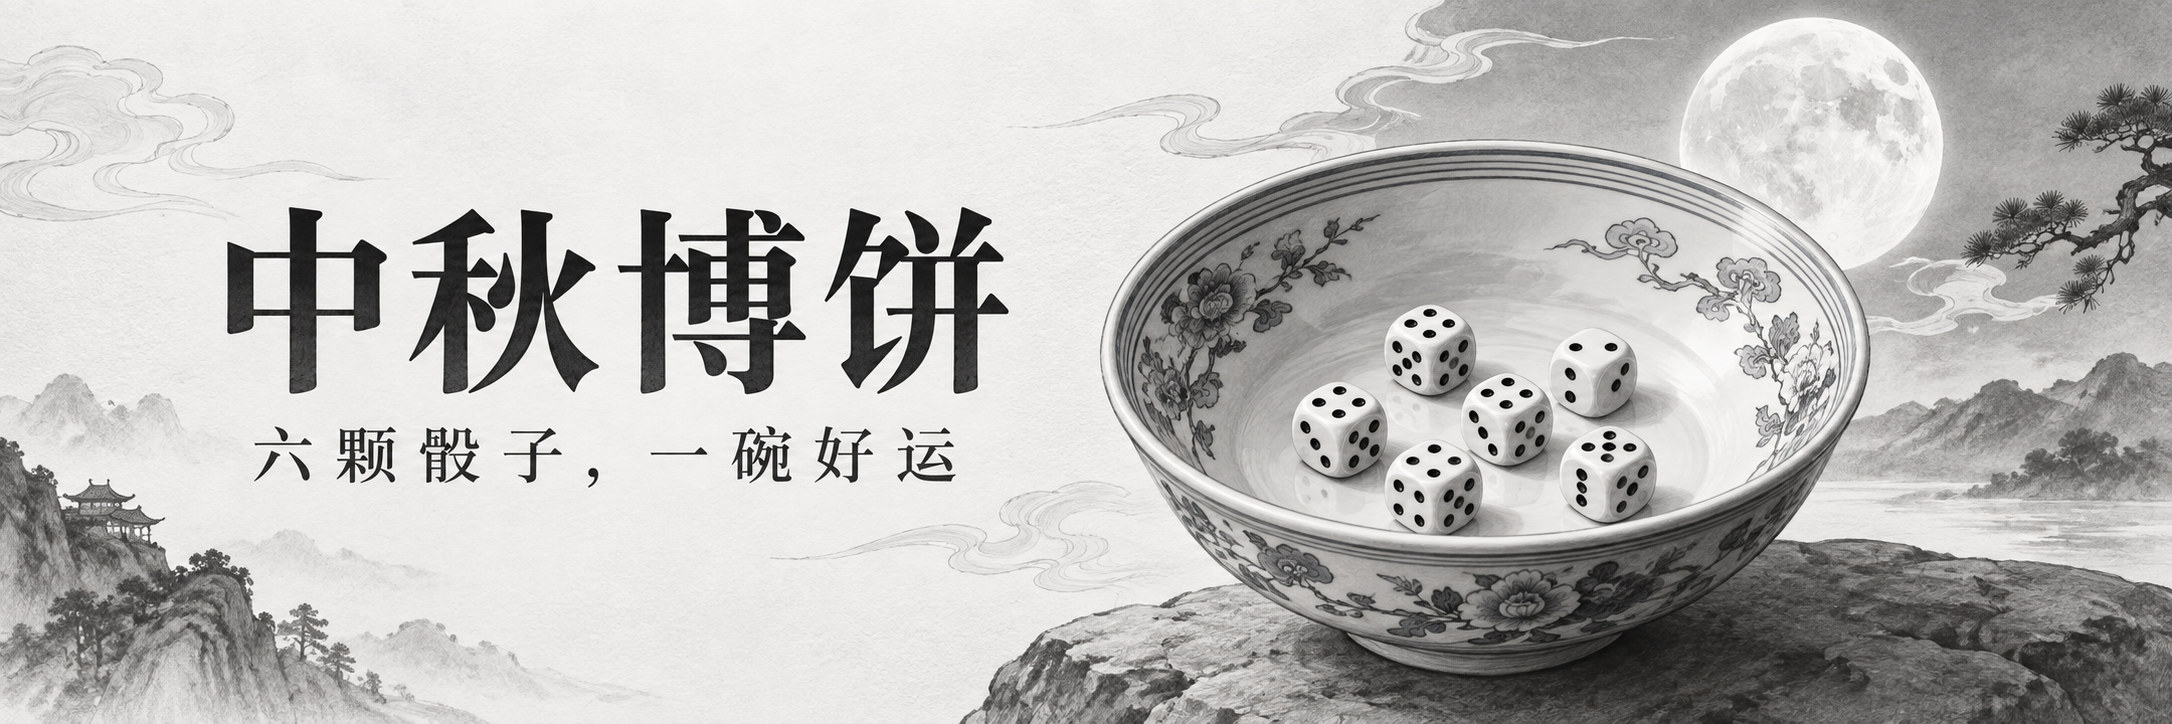
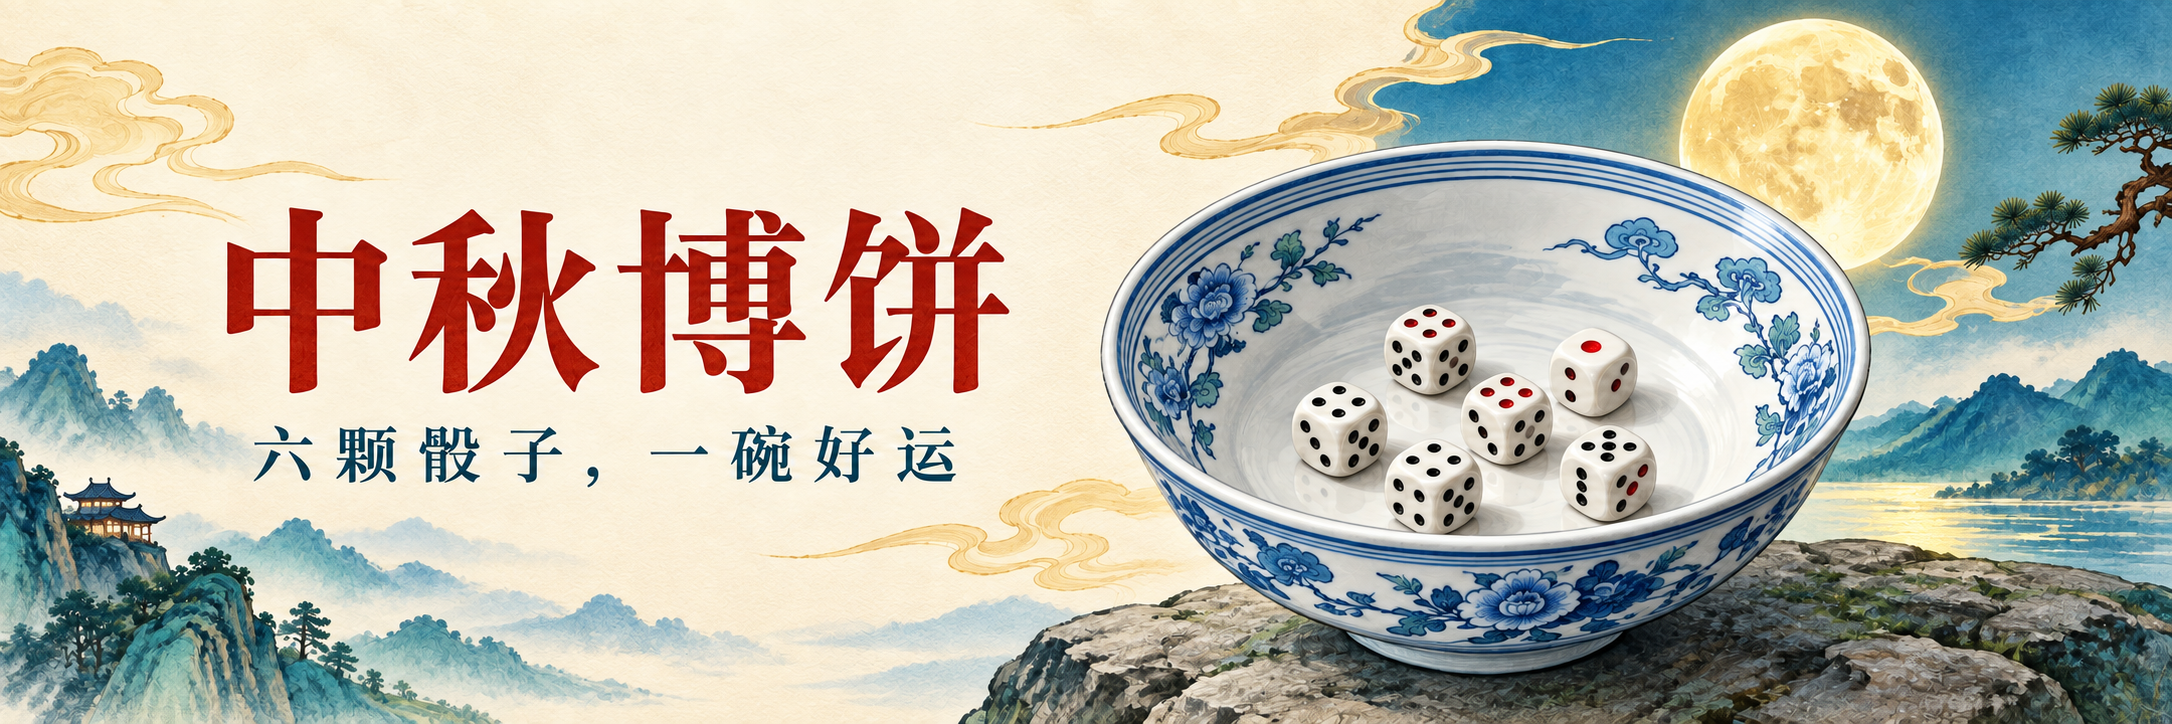
中秋彩色屏幕物料：网站回到中性阅读界面，品牌标换图形标并修页脚尺寸回归
- 用色范围改口径：黑白只约束 TeX 与交付 PDF（AGENTS.md 硬约束、README 同步改写）。README banner 换中秋彩色（构图、六颗骰子与文字未变）；网站只在品牌与主标题点缀朱红、章节标题点缀青瓷绿，瓷碗图、下载入口、骰面与阅读卡片保持黑白灰
- 品牌标：页头页脚的文字标"四"换成外圆内方团花（新增 BrandMark.astro，单色 currentColor）；favicon 与正文骰面不在替换范围
- 修回归（review 发现）：旧规则 .site-footer > a svg 本意只缩小"项目源码"后的外链箭头，却也命中品牌标里的 svg，特异性 (0,1,2) 压过 .brand-die svg (0,1,1)——页脚红底方框里只剩 10×10 小点，页头正常（Chrome 与 WebKit、两个页面实测复现）。改为 .site-footer > a:not(.brand) svg；节日色改用 @theme 令牌 --color-vermilion/--color-celadon，消除 .brand-die 的重复声明与失效的 font 声明
- 回归脚本加防：web_reading_check 七种视口断言品牌标须填满方框且不偏移。此前只查页脚链接的有无与数量，族内尺寸回归不设防。负向验证——把旧选择器塞回构建产物，脚本即在 320px 报"品牌标未填满方框：10×10 vs 27×27"
- 撤回尝试：网页瓷碗着色版与"白底红字 4"骰面按用户反馈回退，两版桌内网页及加赛页图例恢复"黑底 4"；规则语义、TeX、交付 PDF 与黑白预览零改动
- docs：mobile-reading-check 补第四轮（含本次回归的成因与修法）与覆盖范围条目；新增 image-color-prompts.md 记录提示词与未采纳项
- 验证：生产构建两页正常；web_reading_check Chromium（本机 Chrome）＋WebKit 全过；ruff 与两个状态机、跨版本一致性全绿

diff --git a/site/src/styles/global.css b/site/src/styles/global.css
@@ -5,6 +5,8 @@
   --color-muted: #626262;
   --color-mist: #f5f5f5;
   --color-line: #dedede;
+  --color-vermilion: #ae3526;
+  --color-celadon: #24665f;
   --font-sans: "PingFang SC", "Hiragino Sans GB", "Microsoft YaHei", sans-serif;
   --font-display: "Songti SC", "STSong", "Noto Serif CJK SC", "SimSun", serif;
 }
@@ -30,7 +32,8 @@ section[id], article[id], main[id] { scroll-margin-top: 64px; }
 .skip-link:focus { transform: translateY(0); }
 .site-header { min-height: 76px; display: flex; align-items: center; justify-content: space-between; gap: 20px; }
 .brand { display: inline-flex; align-items: center; gap: 10px; font-weight: 600; font-size: 17px; }
-.brand-die { display: inline-flex; align-items: center; justify-content: center; width: 32px; height: 32px; background: var(--color-ink); color: #fff; border-radius: 8px; font: 20px/1 var(--font-display); }
+/* 品牌标是白描图形，靠 color 走 currentColor，底色即方框色。 */
+.brand-die { display: inline-flex; align-items: center; justify-content: center; width: 32px; height: 32px; background: var(--color-vermilion); color: #fff; border-radius: 8px; }
 .header-download { display: inline-flex; align-items: center; gap: 8px; min-height: 44px; padding: 6px 12px; border-radius: 5px; border: 1px solid var(--color-line); font-size: 14px; }
 svg { width: 19px; height: 19px; flex-shrink: 0; }
 .hero { display: flex; justify-content: space-between; align-items: center; gap: 24px; padding: 5px 60px 22px; }
@@ -118,8 +121,14 @@ details[open] summary > span { transform: rotate(45deg); }
 .site-footer { display: flex; align-items: center; justify-content: space-between; gap: 20px; font-size: 13px; color: var(--color-muted); padding-block: 20px 35px; }
 .site-footer > a { min-height: 44px; display: inline-flex; align-items: center; }
 .site-footer .brand { font-size: 14px; color: var(--color-ink); }
-.site-footer .brand-die { width: 27px; height: 27px; font-size: 17px; }
-.site-footer > a svg { width: 10px; height: 10px; margin-left: 6px; }
+.site-footer .brand-die { width: 27px; height: 27px; }
+/* 只缩小"项目源码"后的外链箭头；:not(.brand) 防止压到品牌标（其 svg 须填满方框）。 */
+.site-footer > a:not(.brand) svg { width: 10px; height: 10px; margin-left: 6px; }
+
+.brand-die svg { width: 100%; height: 100%; display: block; }
+/* 节日色只点缀品牌与标题，阅读卡片、骰面和下载入口保持中性。 */
+h1 { color: var(--color-vermilion); }
+h2 { color: var(--color-celadon); }
 
 @media (max-width: 900px) {
   .hero { padding-inline: 0; }
@@ -133,7 +142,7 @@ details[open] summary > span { transform: rotate(45deg); }
   .shell { width: calc(100% - 36px); }
   .site-header { min-height: 62px; gap: 16px; }
   .brand { font-size: 15px; gap: 8px; }
-  .brand-die { width: 28px; height: 28px; font-size: 18px; }
+  .brand-die { width: 28px; height: 28px; }
   .header-download { padding: 4px 9px; font-size: 13px; }
   .header-download svg { width: 16px; height: 16px; }
   .hero { gap: 6px; padding-block: 16px 23px; }

diff --git a/scripts/web_reading_check.py b/scripts/web_reading_check.py
@@ -33,6 +33,13 @@ with sync_playwright() as p:
             response = page.goto(args.url, wait_until='networkidle')
             assert response.status == 200
             assert page.evaluate('document.documentElement.scrollWidth <= innerWidth'), f'{width}px 横向溢出'
+            # 品牌标须填满自己的方框：曾因子 svg 被页脚外链箭头的选择器命中，页脚只剩 10px 的小点。
+            for slot in ('.site-header .brand-die', '.site-footer .brand-die'):
+                chip = page.locator(slot).bounding_box()
+                mark = page.locator(f'{slot} svg').bounding_box()
+                assert abs(mark['width'] - chip['width']) <= 1 and abs(mark['height'] - chip['height']) <= 1, \
+                    f'{width}px {slot} 品牌标未填满方框：{mark["width"]}×{mark["height"]} vs {chip["width"]}×{chip["height"]}'
+                assert abs(mark['x'] - chip['x']) <= 1, f'{width}px {slot} 品牌标偏离方框中心'
             assert page.locator('.game-intro:visible').count() == 1, '先建立游戏与两种发奖方式的整体认识'
             assert page.locator('.game-route > li:visible').count() == 3
             section_ids = page.locator('main > section[id]').evaluate_all('(items) => items.map(el => el.id)')
@@ -108,7 +115,7 @@ with sync_playwright() as p:
             response = context.request.get(args.url + 'champion-final/')
             assert response.status == 404, '单桌场景加赛页不应存在'
             context.close()
-            print(f'PASS {args.browser}：7 种视口、六档直接阅读、13 组源稿骰面、目录触摸/鼠标跳转、章节直达、问答、PDF、'
+            print(f'PASS {args.browser}：7 种视口、品牌标尺寸、六档直接阅读、13 组源稿骰面、目录触摸/鼠标跳转、章节直达、问答、PDF、'
                   f'无脚本阅读；单桌场景加赛页缺席（404）。')
         else:
             context = browser.new_context(viewport={'width': 390, 'height': 844}, is_mobile=True, has_touch=True, reduced_motion='reduce')
@@ -134,7 +141,7 @@ with sync_playwright() as p:
                 '加赛页页脚应能跳回桌内规则主页'
             assert not errors, errors
             context.close()
-            print(f'PASS {args.browser}：7 种视口、六档直接阅读、13 组源稿骰面、目录触摸/鼠标跳转、章节直达、问答、PDF、无脚本阅读；'
-                  f'加赛页四节结构、6 组骰面、加赛纸 PDF。')
+            print(f'PASS {args.browser}：7 种视口、品牌标尺寸、六档直接阅读、13 组源稿骰面、目录触摸/鼠标跳转、章节直达、问答、PDF、'
+                  f'无脚本阅读；加赛页四节结构、6 组骰面、加赛纸 PDF。')
     finally:
         browser.close()

diff --git a/docs/mobile-reading-check.md b/docs/mobile-reading-check.md
@@ -59,9 +59,9 @@
 
 **验证标准随用途调整**：不再要求把个人三步操作塞进首屏，而检查首屏先交代游戏与两种发奖方式，整局概览位于个人操作之前。浏览器能核实顺序、可见性和字号，不能替代人的理解判断。
 
-## 第三轮：外链箭头在手机上按 emoji 呈现（当前）
+## 第三轮：外链箭头在手机上按 emoji 呈现
 
-页脚"项目源码"后的 U+2197（↗）自 Unicode 9 起属于默认 emoji 呈现：手机系统忽略字体栈里的文本字形，用彩色 emoji 字体画出带底色的方块箭头。全站刻意黑白，它成了页面唯一的彩色元素，且 iOS 与安卓观感不一。桌面浏览器默认文本呈现，此问题在本机开发时不可见。
+页脚"项目源码"后的 U+2197（↗）自 Unicode 9 起属于默认 emoji 呈现：手机系统忽略字体栈里的文本字形，用彩色 emoji 字体画出带底色的方块箭头。当时全站采用黑白，它成了页面唯一的彩色元素，且 iOS 与安卓观感不一。桌面浏览器默认文本呈现，此问题在本机开发时不可见。
 
 处理：
 
@@ -109,6 +109,7 @@ npm run preview -- --host 127.0.0.1 --port 4322
 覆盖范围：
 
 - 320、360、390、430、768、1024、1440px 七种宽度，无横向溢出。
+- 品牌标在页头与页脚都填满自己的方框（svg 尺寸曾被页脚外链箭头的选择器压成 10px）。
 - 390×844 下，首屏先交代游戏与两种发奖方式；整局三阶段概览位于个人操作之前，状元核心文字不小于 16px。
 - 六档条件、六种状元等级与两类异常处理直接可见。
 - 13 组显示骰面均能在 LaTeX 的骰面图或文字例句中找到。
@@ -133,3 +134,17 @@ npm run preview -- --host 127.0.0.1 --port 4322
 | 普通奖发完就立刻结束吗？ | 先补完当前一轮，有状元领先者再结束；无人博到则依结束条款继续 |
 
 如果答错，应先观察读者在哪里误读或找不到，再改对应说明；不要用提示后的正确回答代替独立理解。
+
+## 第四轮：中秋彩色屏幕物料（2026-09-15）
+
+黑白限制仅服务 A4 印刷，README 横幅保留中秋彩色。根据用户对第一版色彩过多的反馈，网站回到白底与黑白灰阅读界面，仅品牌和主标题点缀朱红、章节标题点缀青瓷绿。品牌 Logo 使用红底白色图案，标签页图标保持黑色；右上 PDF 入口、瓷碗原图、奖级卡、骰面、流程区、提示区与下载区恢复原有中性样式，去掉彩色底与装饰边框。
+
+曾尝试将网页骰面中的 4 改为白底红字；用户反馈不如黑底醒目，已恢复黑底白字。两版桌内网页及加赛页的图例说明同步恢复“黑底 4”。规则语义、TeX、交付 PDF 与黑白预览未改。AGENTS.md 明确克制用色范围。
+
+品牌标由文字标换成图形标后，页脚出现一处回归：旧规则 `.site-footer > a svg`（本意只缩小“项目源码”后的外链箭头）也命中了品牌标里的 svg，特异性 (0,1,2) 压过 `.brand-die svg` 的 (0,1,1)，页脚红底方框里只剩一个 10px 小点，页头正常。已在该规则上加 `:not(.brand)` 收窄作用范围，并在回归脚本里加“品牌标须填满方框且不偏移”的断言——此前的检查只看页脚链接的有无与数量，族内尺寸回归不设防。
+
+节日色改为 `@theme` 令牌 `--color-vermilion` / `--color-celadon`，不再散落硬编码色值。
+
+验证：生产构建、Chrome（Playwright Chromium 引擎，使用本机 Chrome）与 WebKit 七种视口完整回归通过（含新增的品牌标尺寸断言）；桌面 1440px、手机 390px 截图检查。Python lint、两个状态机与跨版本一致性检查通过。未部署线上。
+
+图片生成方式和提示词见 [image-color-prompts.md](image-color-prompts.md)。

diff --git a/docs/image-color-prompts.md b/docs/image-color-prompts.md
@@ -1,0 +1,21 @@
+# 中秋图片着色提示词
+
+2026-09-15，使用内置 image_gen 编辑原图，banner 输出替换项目中的同名素材；网页瓷碗着色版已按用户反馈撤回，恢复原图。
+
+## README banner
+
+路径：`docs/assets/readme-hero.png`
+
+```text
+Use case: style-transfer. Edit target: supplied README banner. Colorize this exact Chinese Mid-Autumn bobing banner, preserving panoramic 3:1 composition, all six dice, porcelain bowl, mountains, moon, and exact Chinese text 中秋博饼 and 六颗骰子，一碗好运. Rich festive yet refined full color, not monochrome or sepia: vermilion red main title, deep teal subtitle, blue-green Chinese landscape and pine, luminous soft golden moon and warm ivory paper sky, cobalt blue porcelain floral patterns with subtle jade accents, ivory dice with red one/four pips and dark other pips. Keep existing typography and scene geometry as closely as possible. No additional text or objects. Save edited banner image.
+```
+
+## 网页瓷碗图（已撤回，仅保留尝试记录）
+
+路径：`site/src/assets/porcelain-bowl.png`
+
+```text
+Use case: style-transfer. Edit target: supplied porcelain bowl website illustration. Colorize the exact image while preserving shape, perspective, framing and exactly six dice and their visible pip counts. Make the porcelain bowl cobalt blue and jade teal floral and wave patterns on warm ivory glazed ceramic, subtle gold rim. Ivory dice have vermilion red pips on faces with one or four pips, dark navy pips on other faces. Elegant festive Chinese Mid-Autumn full color product illustration. Background solid warm ivory #fffaf2 with soft natural shadow. No text, no additional objects. Keep the whole bowl in frame.
+```
+
+生成图保留六颗骰子，但个别装饰骰面的点数与原图有变化；图片不作为判奖示例，网页数字骰面与规则文字仍由回归脚本核对源稿。banner 同样有此漂移（如右上那颗原为两点、成图读作一点）：构图与文字未变，但骰面本身不作判奖依据。

diff --git a/AGENTS.md b/AGENTS.md
@@ -126,8 +126,9 @@ tex、验证脚本、docs 描述同一套规则，任何语义修改一次改齐
   散落产物，直接删除，不入库、不 review。
 - **单页**：任何版本改动后其 PDF 页数必须仍为 1。当前内容底部约 798pt，安全线
   806pt，余量仅约 8pt——新增整行文字必然溢出，先想清楚删什么或压哪里。
-- **黑白**：只用灰阶与黑底白字（黑底"4"表示红四，是黑白印刷对红色的替代），
-  不得引入彩色。
+- **规则纸黑白**：灰阶与黑底白字（黑底"4"表示红四，是黑白印刷对红色的替代）只约束 TeX
+  与交付 PDF，不得引入彩色。README banner 用中秋彩色；网站只在品牌与主标题点缀朱红、
+  章节标题点缀青瓷绿，瓷碗图、下载入口、骰面与阅读卡片保持黑白灰，不铺彩色底。
 - **排版方向**：版面按"留白转化为行距与字号"优化过，不要为填空间编造
   栏目、字段或文字。
 - **表述纪律**：不使用有歧义的措辞（例："最高奖级已发完"曾被迫改为

diff --git a/README.md b/README.md
@@ -166,7 +166,7 @@ flowchart TD
 3. 在 `docs/rule-audit.md` 记录修改原因；更新受影响的 README 流程图与网页举例。
 4. 运行 `make pdf`、`make pdf-final` 和[完整验证](docs/local-dev-and-verification.md#机器验证)，确认两份 PDF 均为 **1 页**、内容最低点 **yMax ≤ 806pt**，并抽查 PDF 中的新措辞。
 
-规则纸保持黑白灰阶与单页约束，新增内容前先看 [AGENTS.md](AGENTS.md) 的版面约定。
+Banner 用中秋彩色，网站只在品牌与主标题点缀朱红、章节标题点缀青瓷绿；黑白要求只约束打印物料。规则纸保持黑白灰阶与单页约束，新增内容前先看 [AGENTS.md](AGENTS.md) 的版面约定。
 
 ## 📜 开源协议
 
